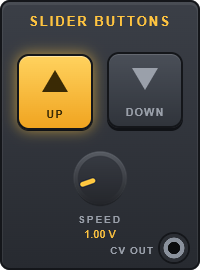
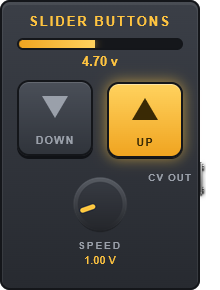
Add live output meter, stock MOD output plug and swap UP/DOWN
- New control output port "Output Value" (index 4, appended so existing ports keep their numbers) reports the current level, since a GUI cannot read a CV port
- modgui: level meter driven by script-slider-buttons.js, declared via modgui:monitoredOutputs
- modgui: DOWN on the left and UP on the right; the CV output uses MOD's own port artwork (mod-pedal-output) instead of a hand-drawn jack
- Regenerated the store screenshot and thumbnail
- README documents the new port

diff --git a/slider-buttons.lv2/modgui/stylesheet-slider-buttons.css b/slider-buttons.lv2/modgui/stylesheet-slider-buttons.css
@@ -1,13 +1,12 @@
 .mod-pedal.slider-buttons{{{cns}}} {
     position: relative;
     width: 200px;
-    height: 270px;
+    height: 290px;
     border-radius: 10px;
     background: linear-gradient(180deg, #3b3f47 0%, #272a30 100%);
     box-shadow: inset 0 0 0 2px #14161a, inset 0 2px 0 3px rgba(255, 255, 255, 0.07);
     font-family: Arial, Helvetica, sans-serif;
     color: #d8dbe0;
-    overflow: hidden;
 }
 
 .mod-pedal.slider-buttons{{{cns}}} .drag-handle {
@@ -32,10 +31,40 @@
     color: #ffc440;
 }
 
+/* Output level meter, filled by script-slider-buttons.js from the Value port. */
+.mod-pedal.slider-buttons{{{cns}}} .meter {
+    position: absolute;
+    left: 17px;
+    top: 38px;
+    width: 166px;
+    height: 12px;
+    box-sizing: border-box;
+    border-radius: 6px;
+    border: 2px solid #14161a;
+    background: #15171b;
+    overflow: hidden;
+}
+.mod-pedal.slider-buttons{{{cns}}} .meter-fill {
+    width: 0;
+    height: 100%;
+    background: linear-gradient(90deg, #f0a420 0%, #ffd25e 100%);
+    box-shadow: 0 0 8px rgba(255, 196, 64, 0.6);
+}
+.mod-pedal.slider-buttons{{{cns}}} .out-value {
+    position: absolute;
+    left: 0;
+    top: 54px;
+    width: 100%;
+    text-align: center;
+    font-size: 13px;
+    font-weight: bold;
+    color: #ffc440;
+}
+
 /* UP / DOWN buttons. The switch widget toggles the .on / .off class on these. */
 .mod-pedal.slider-buttons{{{cns}}} .btn {
     position: absolute;
-    top: 52px;
+    top: 80px;
     width: 76px;
     height: 76px;
     box-sizing: border-box;
@@ -47,8 +76,8 @@
     text-align: center;
     z-index: 40;
 }
-.mod-pedal.slider-buttons{{{cns}}} .btn.up { left: 17px; }
-.mod-pedal.slider-buttons{{{cns}}} .btn.down { right: 17px; }
+.mod-pedal.slider-buttons{{{cns}}} .btn.up { right: 17px; }
+.mod-pedal.slider-buttons{{{cns}}} .btn.down { left: 17px; }
 
 .mod-pedal.slider-buttons{{{cns}}} .btn span {
     position: absolute;
@@ -87,7 +116,7 @@
 .mod-pedal.slider-buttons{{{cns}}} .knob {
     position: absolute;
     left: 68px;
-    top: 146px;
+    top: 172px;
     width: 64px;
     height: 64px;
     background-image: url(/resources/knob.png{{{ns}}});
@@ -99,7 +128,7 @@
 .mod-pedal.slider-buttons{{{cns}}} .knob-label {
     position: absolute;
     left: 0;
-    top: 214px;
+    top: 240px;
     width: 100%;
     text-align: center;
     font-size: 10px;
@@ -111,7 +140,7 @@
 .mod-pedal.slider-buttons{{{cns}}} .knob-value {
     position: absolute;
     left: 60px;
-    top: 228px;
+    top: 254px;
     width: 80px;
     text-align: center;
     font-size: 11px;
@@ -119,24 +148,21 @@
     z-index: 40;
 }
 
+/* CV output label, next to the plug MOD draws on the right edge. */
 .mod-pedal.slider-buttons{{{cns}}} .out-label {
     position: absolute;
-    right: 46px;
-    bottom: 14px;
+    right: 8px;
+    top: 172px;
     font-size: 10px;
     font-weight: bold;
     letter-spacing: 1px;
     color: #9aa0aa;
 }
 
-.mod-pedal.slider-buttons{{{cns}}} .jack {
+/* MOD paints its own connector artwork on the port element; this only places its container on the right edge. */
+.mod-pedal.slider-buttons{{{cns}}} .mod-pedal-output {
     position: absolute;
-    right: 12px;
-    bottom: 8px;
-    width: 28px;
-    height: 28px;
-    border-radius: 50%;
-    background: radial-gradient(circle at 50% 50%, #0b0c0e 0 30%, #8a919c 32% 52%, #2b2e34 54% 100%);
-    box-shadow: 0 0 0 2px #14161a;
+    left: 100%;
+    top: 150px;
     z-index: 40;
 }

diff --git a/slider-buttons.lv2/modgui/icon-slider-buttons.html b/slider-buttons.lv2/modgui/icon-slider-buttons.html
@@ -3,6 +3,9 @@
 
     <div class="title">SLIDER BUTTONS</div>
 
+    <div class="meter"><div class="meter-fill"></div></div>
+    <div class="out-value" mod-role="output-control-value" mod-port-symbol="Value"></div>
+
     <div class="btn up" mod-role="input-control-port" mod-widget="switch" mod-port-symbol="UpButton" title="Hold to raise the CV output">
         <i class="arrow"></i>
         <span>UP</span>
@@ -17,5 +20,7 @@
     <div class="knob-value" mod-role="input-control-value" mod-port-symbol="Speed"></div>
 
     <div class="out-label">CV OUT</div>
-    <div class="jack" mod-role="output-cv-port" mod-port-symbol="CvOutput" title="CV Output"></div>
+    <div class="mod-pedal-output">
+        <div class="mod-output" mod-role="output-cv-port" mod-port-symbol="CvOutput" title="CV Output"></div>
+    </div>
 </div>

diff --git a/slider-buttons.lv2/modgui/script-slider-buttons.js b/slider-buttons.lv2/modgui/script-slider-buttons.js
@@ -1,0 +1,20 @@
+// Drives the output level meter from the plugin's "Value" control output port.
+function (event) {
+    var fill = event.icon.find('.meter-fill');
+
+    function show(value) {
+        var v = Math.max(0, Math.min(10, value));
+        fill.css('width', (v / 10 * 100) + '%');
+    }
+
+    if (event.type == 'start') {
+        var ports = event.ports;
+        for (var p in ports) {
+            if (ports[p].symbol == 'Value') {
+                show(ports[p].value);
+            }
+        }
+    } else if (event.type == 'change' && event.symbol == 'Value') {
+        show(event.value);
+    }
+}

diff --git a/slider-buttons.c b/slider-buttons.c
@@ -7,13 +7,15 @@ typedef enum {
 	DOWN_BUTTON,
 	UP_BUTTON,
 	CV_OUTPUT,
-	SPEED
+	SPEED,
+	VALUE_OUT
 } PortIndex;
 typedef struct {
     float* down_button;
     float* up_button;
     float* cv_output;
     float* speed;
+    float* value_out;
 	double srate;
 	float current_value;
 } StateData;
@@ -21,6 +23,7 @@ static LV2_Handle instantiate(const LV2_Descriptor* descriptor, double rate, con
 	StateData* stateData = (StateData*)malloc(sizeof(StateData));
     stateData->srate = rate;
     stateData->current_value = 0;
+    stateData->value_out = NULL;
 	return (LV2_Handle)stateData;
 }
 static void connect_port(LV2_Handle instance, uint32_t port, void* data) {
@@ -30,6 +33,7 @@ static void connect_port(LV2_Handle instance, uint32_t port, void* data) {
 	case UP_BUTTON: stateData->up_button = (float*)data; break;
 	case CV_OUTPUT: stateData->cv_output = (float*)data; break;
 	case SPEED: stateData->speed = (float*)data; break;
+	case VALUE_OUT: stateData->value_out = (float*)data; break;
 	}
 }
 static void activate(LV2_Handle instance) { }
@@ -49,6 +53,8 @@ static void run(LV2_Handle instance, uint32_t n_samples) {
 		if (stateData->current_value > 10) stateData->current_value = 10;
 		cv_output[pos] = stateData->current_value;
 	}
+	// Report the level on a control port so the GUI can show it (a GUI cannot read a CV port).
+	if (stateData->value_out) *(stateData->value_out) = stateData->current_value;
 }
 static void deactivate(LV2_Handle instance){}
 static void cleanup(LV2_Handle instance) {

diff --git a/README.md b/README.md
@@ -14,8 +14,9 @@ Hold **Up** and the output ramps up; hold **Down** and it ramps down. Release bo
 | Up Button | Control in (toggle, momentary) | 0–1 | While on, the output ramps up |
 | Speed | Control in | 0–10 (default 1) | Ramp rate in volts per second |
 | CV Output | CV out | 0–10 V | The current value |
+| Output Value | Control out | 0–10 V | The same level as a control value, so the GUI can show a live meter |
 
-The output is clamped to 0–10 V and starts at 0 V. If both buttons are held, they cancel out.
+The output is clamped to 0–10 V and starts at 0 V. If both buttons are held, they cancel out. The pedal GUI shows the level as a bar and a number.
 
 ## Building and installing
 
